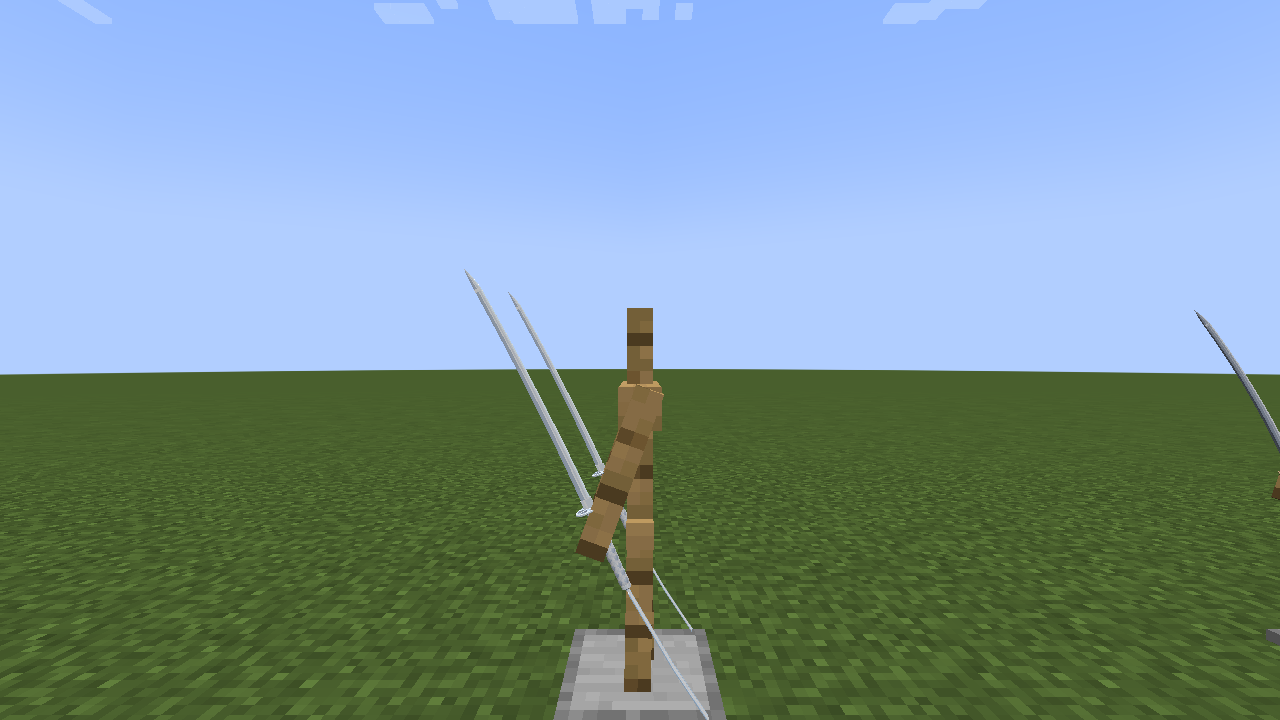
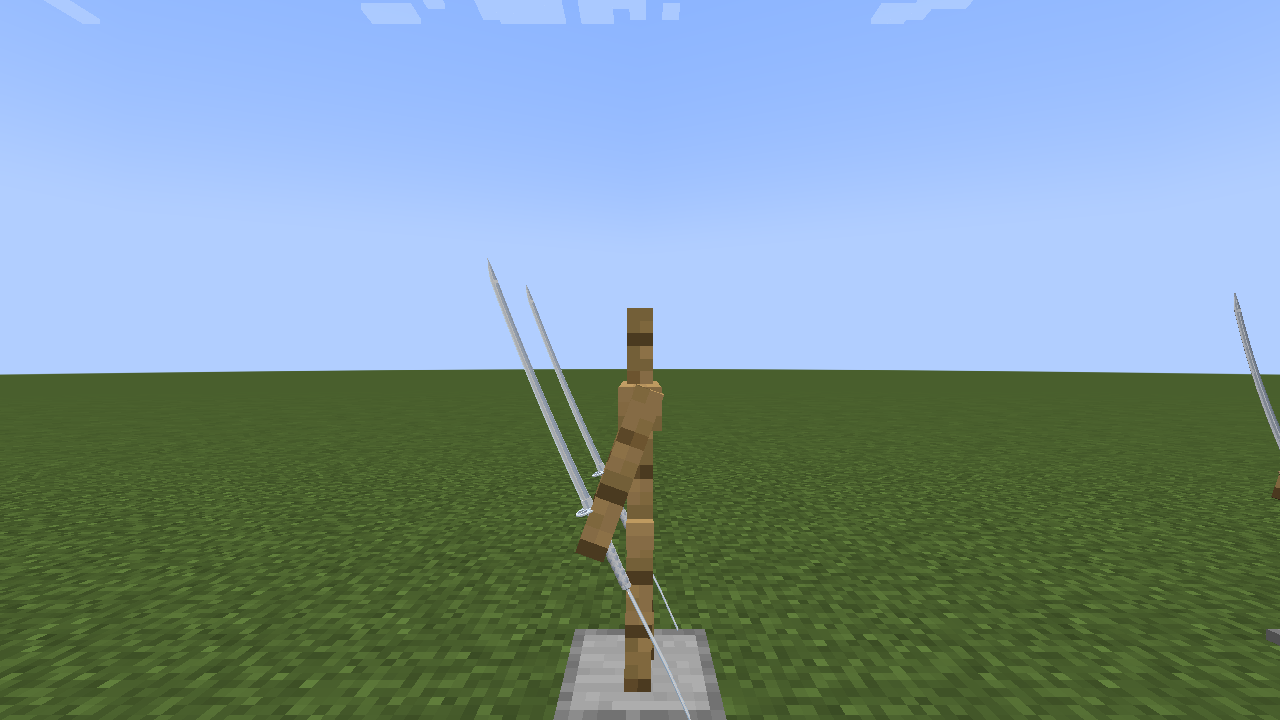
Step B fix: third person sori direction (roll 180 about the blade axis via ry), screenshots, LOG rule

diff --git a/tools/spike_tune_gen.py b/tools/spike_tune_gen.py
@@ -155,8 +155,8 @@ sets["r4"] = c
 
 # r5: candidate final values for the real Rukia item (all views, both states, dark room), see LOG.md step B
 RUKIA_FINAL = {
-    "thirdperson_righthand": ([45, 0, 0], [0, -2, 1.75], 1.5),
-    "thirdperson_lefthand": ([45, 0, 0], [0, -2, 1.75], 1.5),
+    "thirdperson_righthand": ([45, 180, 0], [0, -2, 1.75], 1.5),
+    "thirdperson_lefthand": ([45, 180, 0], [0, -2, 1.75], 1.5),
     "firstperson_righthand": ([-30, 220, -6], [-3, 3, -3], 1.15),
     "firstperson_lefthand": ([-30, 220, -6], [-3, 3, -3], 1.15),
     "ground": ([90, 0, 0], [0, 3, -4.5], 0.9),
@@ -170,6 +170,16 @@ alt = dict(RUKIA_FINAL)
 alt["fixed"] = ([0, 0, -45], [-5.6, -5.6, 0], 1.6)
 c.append({"name": "r5_sealed_frame_alt", "view": "frame", "state": "sealed", "display": disp(**alt)})
 sets["r5"] = c
+
+# r6: third person roll of 180 about the blade axis (ry applies before rx), so the sori bends toward the body
+R6 = dict(RUKIA_FINAL)
+R6["thirdperson_righthand"] = ([45, 180, 0], [0, -2, 1.75], 1.5)
+R6["thirdperson_lefthand"] = ([45, 180, 0], [0, -2, 1.75], 1.5)
+c = []
+for st in ("sealed", "shikai"):
+    for v in ("side_r", "side_l", "front"):
+        c.append({"name": "r6_%s_%s" % (st, v), "view": v, "state": st, "display": disp(**R6)})
+sets["r6"] = c
 
 if __name__ == "__main__":
     out, name = sys.argv[1], sys.argv[2]

diff --git a/LOG.md b/LOG.md
@@ -274,3 +274,6 @@ Placeholders of `reiatsu_test:sode_no_shirayuki` replaced by the exported models
 - First person shows 4 ribbon segments only and the mod HUD overlaps the right part of the sword in default layout.
 - Icons are Pillow pictograms; bankai icon still a placeholder; Blender renders pending.
 - Third person on a real player (not only the armor stand) not screenshotted again; the stand with arm pose [-20, 0, 0] is the reference.
+
+### Step B fix: third person sori direction (reusable rule for Byakuya)
+Bug: on the armor stand the blade curved the wrong way (tip bent away from the body, edge toward the body). Fix: thirdperson_right/left rotation [45, 0, 0] -> **[45, 180, 0]**, translation and scale unchanged, left entries equal right (rule b). Rule: `Transformation` applies rotation as extrinsic Z, then Y, then X (`Quaternionf#rotationXYZ`), so `ry` acts BEFORE `rx` and, while the blade is still along model +Y, `ry = 180` is a roll of 180 degrees about the blade axis. It swaps edge and spine (and the flats) without moving tip or grip, so the tip stays up and the grip stays in the hand; the later `rx = 45` then tilts the blade up-forward. Result (`r6` set, stand from both sides and front, sealed and shikai, both hands): tip up, the curve bows so that the tip bends back toward the stand's body, the edge faces away/forward; the shikai ribbon hangs from the pommel behind the hand. First person is unchanged (its ry = 220 already contains the other flat). Ground, fixed and gui were not affected by the bug and not changed. For a future model whose sori goes the wrong way in one view, flip it by adding 180 to that view's `ry` (first/third person use different frames, so the two views need their own value). Screenshots 04, 05, 05b, 06, 07, 07b replaced/added in `blender/renders/rukia_inhand/`.
